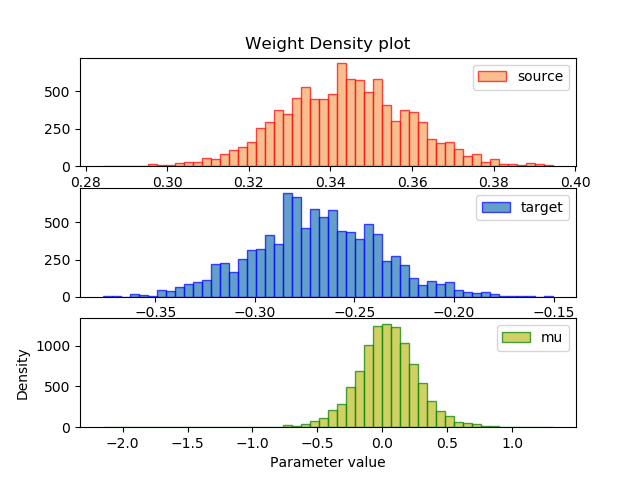
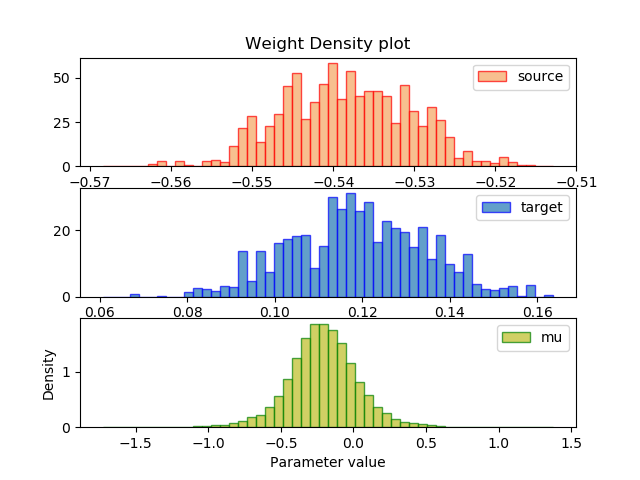
number of tasks is now dynamic

diff --git a/mcmc-transfer-learning/experiment.py b/mcmc-transfer-learning/experiment.py
@@ -13,24 +13,21 @@ import sys
 
 class Experiment(object):
     def __init__(self, num_samples = 2000):
+        self.num_tasks = 2
         self.mu = 0
-        self.n_1 = 80
-        self.n_2 = 20
+        self.num_obv = np.array([80, 20])
         self.sigma_mu_sq = 25
         self.sigma_delta_sq = 1
         self.tau_sq = 0.1
         self.s_delta_sq = 0.05
         self.s_mu_sq = 0.05
-        self.delta_1, self.delta_2 = np.random.normal(self.mu, np.sqrt(self.sigma_delta_sq), 2)
-        self.f_1 = self.func(self.delta_1)
-        self.f_2 = self.func(self.delta_2)
-        self.y_1 = np.random.normal(self.f_1, np.sqrt(self.tau_sq), self.n_1)
-        self.y_2 = np.random.normal(self.f_2, np.sqrt(self.tau_sq), self.n_2)
-        self.Y = np.concatenate((self.y_1, self.y_2), axis=0)
+        self.delta = np.random.normal(self.mu, np.sqrt(self.sigma_delta_sq), self.num_tasks)
+        self.fx = self.func(self.delta)
+        self.y = [np.random.normal(self.fx[task], np.sqrt(self.tau_sq), self.num_obv[task]) for task in range(self.num_tasks)]
+        self.Y = np.concatenate(self.y, axis=0)
         self.F = self.func(self.mu)
         self.num_samples = num_samples
-        self.delta_file_1 = 'delta_1.csv'
-        self.delta_file_2 = 'delta_2.csv'
+        self.delta_files = ['delta_'+str(task+1)+'.csv']
         self.mu_file = 'mu.csv'
         self.joint_file ='joint_sampling.csv'
 
@@ -43,17 +40,17 @@ class Experiment(object):
     #     alpha = np.exp(-0.5/self.tau_sq * (np.sum(np.square(y - fx_p)) - np.sum(np.square(y - fx_c))))
     #     return alpha
 
-    def joint_likelihood(self, y_1, f_1, y_2, f_2, tau_sq):
-        log_likelihood = np.sum(norm.logpdf(f_1, y_1, np.sqrt(tau_sq))) + np.sum(norm.logpdf(f_2, y_2, np.sqrt(tau_sq)))
+    def joint_likelihood(self, y, f, tau_sq):
+        log_likelihood = np.sum(np.array([np.sum(norm.logpdf(f[task], y[task], np.sqrt(tau_sq))) for task in range(self.num_tasks)]))
         return log_likelihood
 
-    def joint_prior(self, delta_1, delta_2, mu, sigma_sq):
-        log_prior = np.sum(norm.logpdf(delta_1, mu, np.sqrt(sigma_sq))) + np.sum(norm.logpdf(delta_2, mu, np.sqrt(sigma_sq)))
+    def joint_prior(self, delta, mu, sigma_sq):
+        log_prior = np.sum(np.array([norm.logpdf(delta[task], mu, np.sqrt(sigma_sq)) for task in range(self.num_tasks)]))
         return log_prior
 
-    def joint_acceptance_ratio(self, delta_1_c, delta_2_c, delta_1_p, delta_2_p, y_1, y_2, f_delta_1_c, f_delta_1_p, f_delta_2_c, f_delta_2_p, mu_c, tau_sq, sigma_sq):
-        diff_likelihood = self.joint_likelihood(y_1, f_delta_1_p, y_2, f_delta_2_p, tau_sq) - self.joint_likelihood(y_1, f_delta_1_c, y_2, f_delta_2_c, tau_sq)
-        diff_prior = self.joint_prior(delta_1_p, delta_2_p, mu_c, sigma_sq) - self.joint_prior(delta_1_c, delta_2_c, mu_c, sigma_sq)
+    def joint_acceptance_ratio(self, delta_c, delta_p, y, f_c, f_p, mu, tau_sq, sigma_sq):
+        diff_likelihood = self.joint_likelihood(y, f_p, tau_sq) - self.joint_likelihood(y, f_c, tau_sq)
+        diff_prior = self.joint_prior(delta_p, mu, sigma_sq) - self.joint_prior(delta_c, mu, sigma_sq)
         alpha = min(1, np.exp(diff_likelihood + diff_prior))
         return alpha
 
@@ -86,39 +83,34 @@ class Experiment(object):
         tau_sq_c = self.tau_sq
         sigma_sq_c = self.sigma_delta_sq
         mu = self.mu
-        delta_1_c, delta_2_c = self.delta_1, self.delta_2
-        f_delta_1_c = self.f_1
-        f_delta_2_c = self.f_2
+        delta_c = self.delta
+        fx_c = self.fx
         file = open(self.joint_file, 'w')
         for sample in range(1, self.num_samples):
             # Propose delta_1 and delta_2
-            delta_1_p = delta_1_c + np.random.normal(0, self.s_delta_sq)
-            delta_2_p = delta_2_c + np.random.normal(0, self.s_delta_sq)
+            delta_p = delta_c + np.random.normal(0, self.s_delta_sq, self.num_tasks)
             # Evaluate function f
-            f_delta_1_p = self.func(delta_1_p)
-            f_delta_2_p = self.func(delta_2_p)
+            fx_p = self.func(delta_p)
             # get joint acceptance ratio value
-            alpha = self.joint_acceptance_ratio(delta_1_c, delta_2_c, delta_1_p, delta_2_p, self.y_1, self.y_2, f_delta_1_c, f_delta_1_p, f_delta_2_c, f_delta_2_p, mu, tau_sq_c, sigma_sq_c)
+            alpha = self.joint_acceptance_ratio(delta_c, delta_p, self.y, fx_c, fx_p, mu, tau_sq_c, sigma_sq_c)
             u = np.random.uniform(0, 1)
             if u < alpha:
-                delta_1_c = delta_1_p
-                delta_2_c = delta_2_p
-                f_delta_1_c = f_delta_1_p
-                f_delta_2_c = f_delta_2_p
+                delta_c = delta_p
+                fx_c = fx_p
             # Drawing tau_sq
-            tau_a = (self.n_1 + self.n_2)/2 + tau_a_prior;
+            tau_a = np.sum(self.num_obv)/2 + tau_a_prior;
             tau_b = tau_b_prior
-            tau_b = tau_b + np.sum(np.square(self.y_1 - delta_1_c))/2 + np.sum(np.square(self.y_2 - delta_2_c))/2
+            tau_b = tau_b + np.sum(np.array([np.sum(np.square(self.y[task] - delta_c[task]))/2 for task in range(self.num_tasks)]))
             tau_sq_c = 1 / np.random.gamma(tau_a, tau_b)
             # Save weights
-            weights = np.array([delta_1_c, delta_2_c, mu]).reshape(1, 3)
+            weights = np.concatenate((delta_c, np.array([mu]))).reshape(1, self.num_tasks + 1)
             np.savetxt(file, weights, delimiter=',')
             print('weights: ', weights)
             # Draw mu
-            mu = np.random.normal((delta_1_c + delta_2_c)/2, np.sqrt(sigma_sq_c/2))
+            mu = np.random.normal(delta_c.mean(), np.sqrt(sigma_sq_c/2))
             # Drawing sigma_sq
             sig_a = 2/2 + sig_a_prior
-            sig_b = (np.square(delta_1_c - mu) + np.square(delta_2_c - mu))/2 + sig_b_prior
+            sig_b = np.sum(np.square(delta_c - mu))/2 + sig_b_prior
             sigma_sq_c = 1 / np.random.gamma(sig_a, sig_b);
 
         file.close()
@@ -144,13 +136,13 @@ class Experiment(object):
         burnin = int(0.1 * self.num_samples)
         ax = plt.subplot(311)
         plt.title('Weight Density plot')
-        plt.hist(weights[burnin:, 0], bins=50, alpha=0.7, facecolor='sandybrown', edgecolor='r', label='source', density=False)
+        plt.hist(weights[burnin:, 0], bins=50, alpha=0.7, facecolor='sandybrown', edgecolor='r', label='source', density=True)
         plt.legend()
         ax = plt.subplot(312)
-        plt.hist(weights[burnin:, 1], bins=50, alpha=0.7, facecolor='C0', edgecolor='b', label='target', density=False)
+        plt.hist(weights[burnin:, 1], bins=50, alpha=0.7, facecolor='C0', edgecolor='b', label='target', density=True)
         plt.legend()
         ax = plt.subplot(313)
-        plt.hist(weights[burnin:, 2], bins=50, alpha=0.7, facecolor='C8', edgecolor='g', label='mu', density=False)
+        plt.hist(weights[burnin:, 2], bins=50, alpha=0.7, facecolor='C8', edgecolor='g', label='mu', density=True)
         plt.legend()
         plt.xlabel('Parameter value')
         plt.ylabel('Density')
